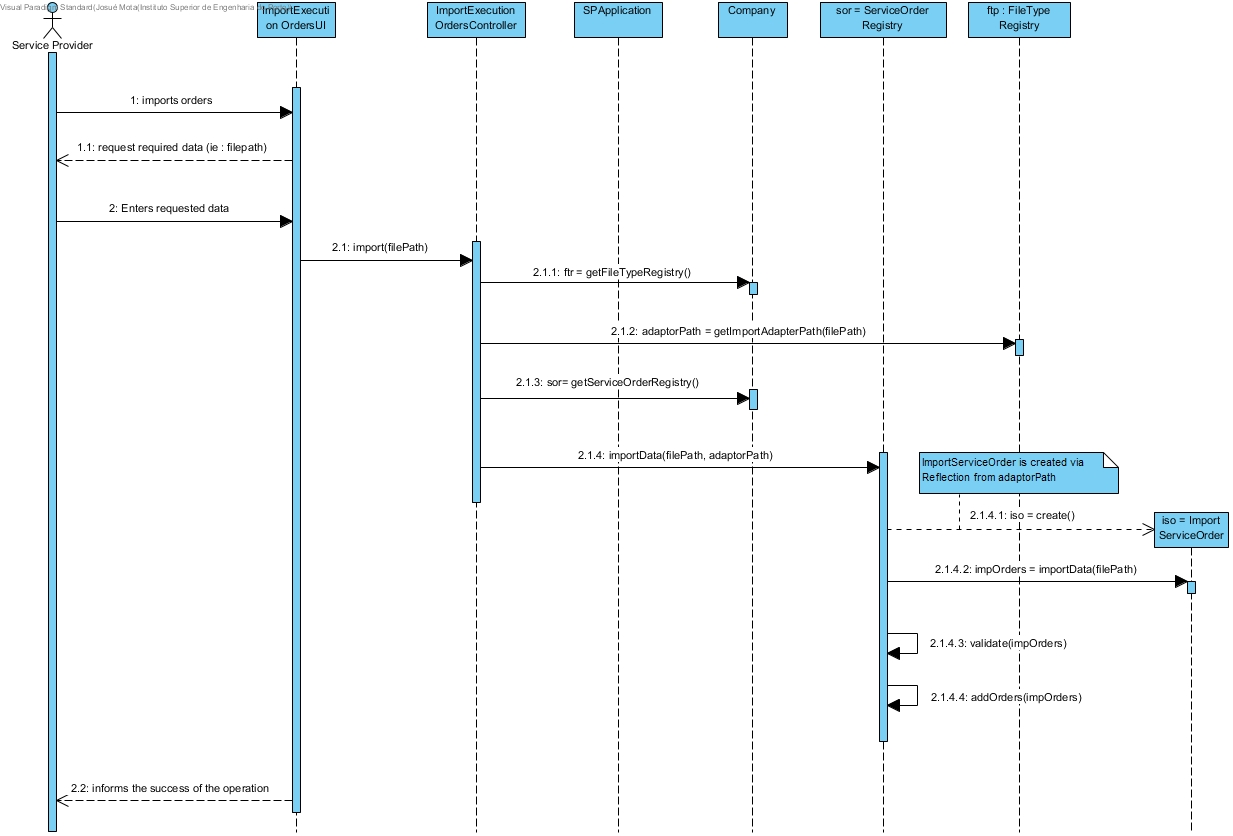
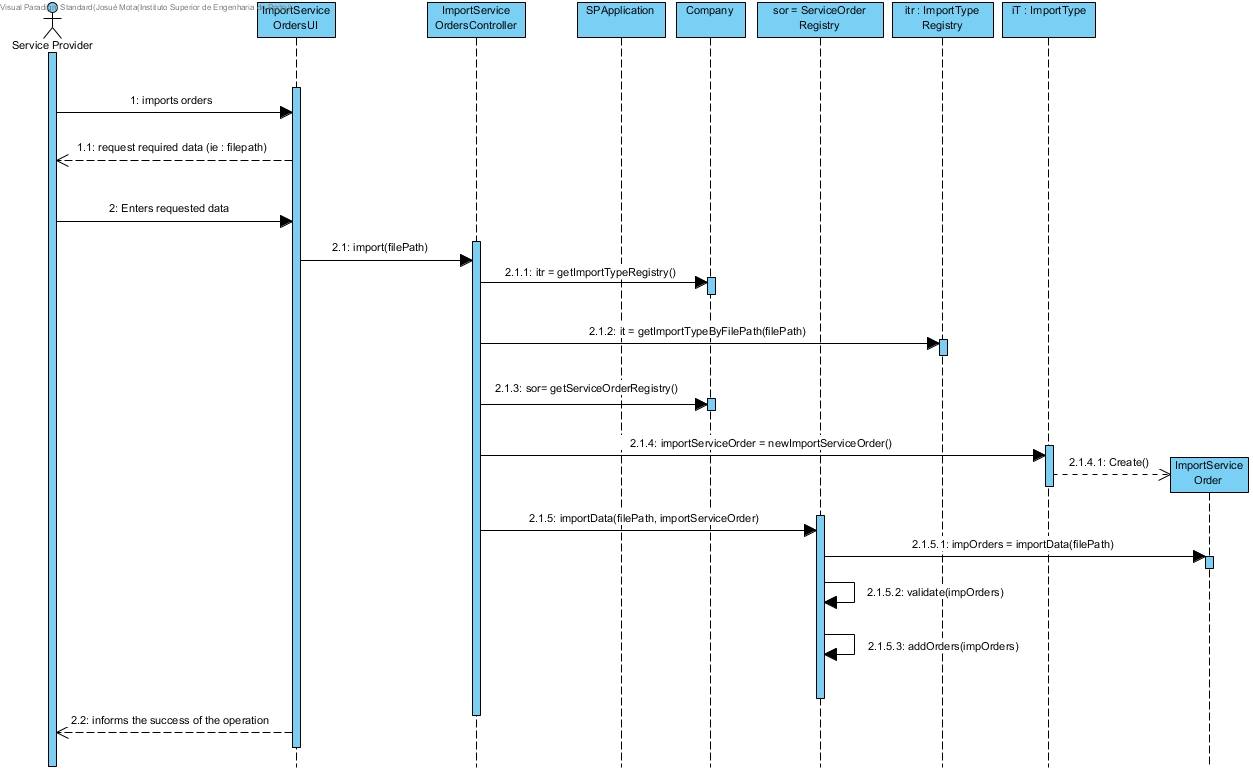
[UC-16] Commit introduces changes in the way the import type is instantiated

diff --git a/Design/UC16_ImportServiceOrders.md b/Design/UC16_ImportServiceOrders.md
@@ -7,14 +7,12 @@
 | 1. The Service Provider begins to import orders. | ... interacts with the user?| importServiceOrdersUI | PureFabrication: it is not justified to assign this responsibility to any class in the Domain Model. |
 || controls the UC ? | importServiceOrdersController | Controller |  
 | 2. The System requests the required data (i.e. filepath). ||||
-| 3. The Service Provider enters the requested data.| .. saves Order Registry ? | ServiceOrderRegistry | IE |
-|| .. who knows ServiceOrderRegistry ? | Company | LC + HC |
-|| .. knows how to import the file type? | FileTypeRegistry | IE |
-|| .. who knows FileTypeRegistry? | Company | LC + HC |
-|| .. knows how to import the filetype? | ImportServiceOrder | Adapter (csv, xml, xlsx) |
-|| .. create / instantiate ImportxxxAdapter ? | ServiceOrderRegistry | Creator the instance is created using reflection |
-|| .. create / Instanciate ServiceOrder(s) from each file type ? | ImportxxxAdapter | Creator |
-|| .. saves ServiceOrder(s) ? | ServiceRequestRegistry | Creator rule(2) | 
+| 3. The Service Provider enters the requested data.| |||
+|| ... creates/instances ImportServiceOrder?| ImportType | Creator : Knows the type Importer to be created |
+|| ... knows importType? | ImportTypeRegistry | IE |
+|| ... knows ImportTypeRegistry? | Company | LC + HC |
+|| ... create / Instanciate ServiceOrder(s) from each file type ? | ImportxxxAdapter | Creator |
+|| ... saves ServiceOrder(s) ? | ServiceRequestRegistry | Creator rule(2) | 
 | 4. The System informs the success of the operation.||||
 
 ## Systematization
